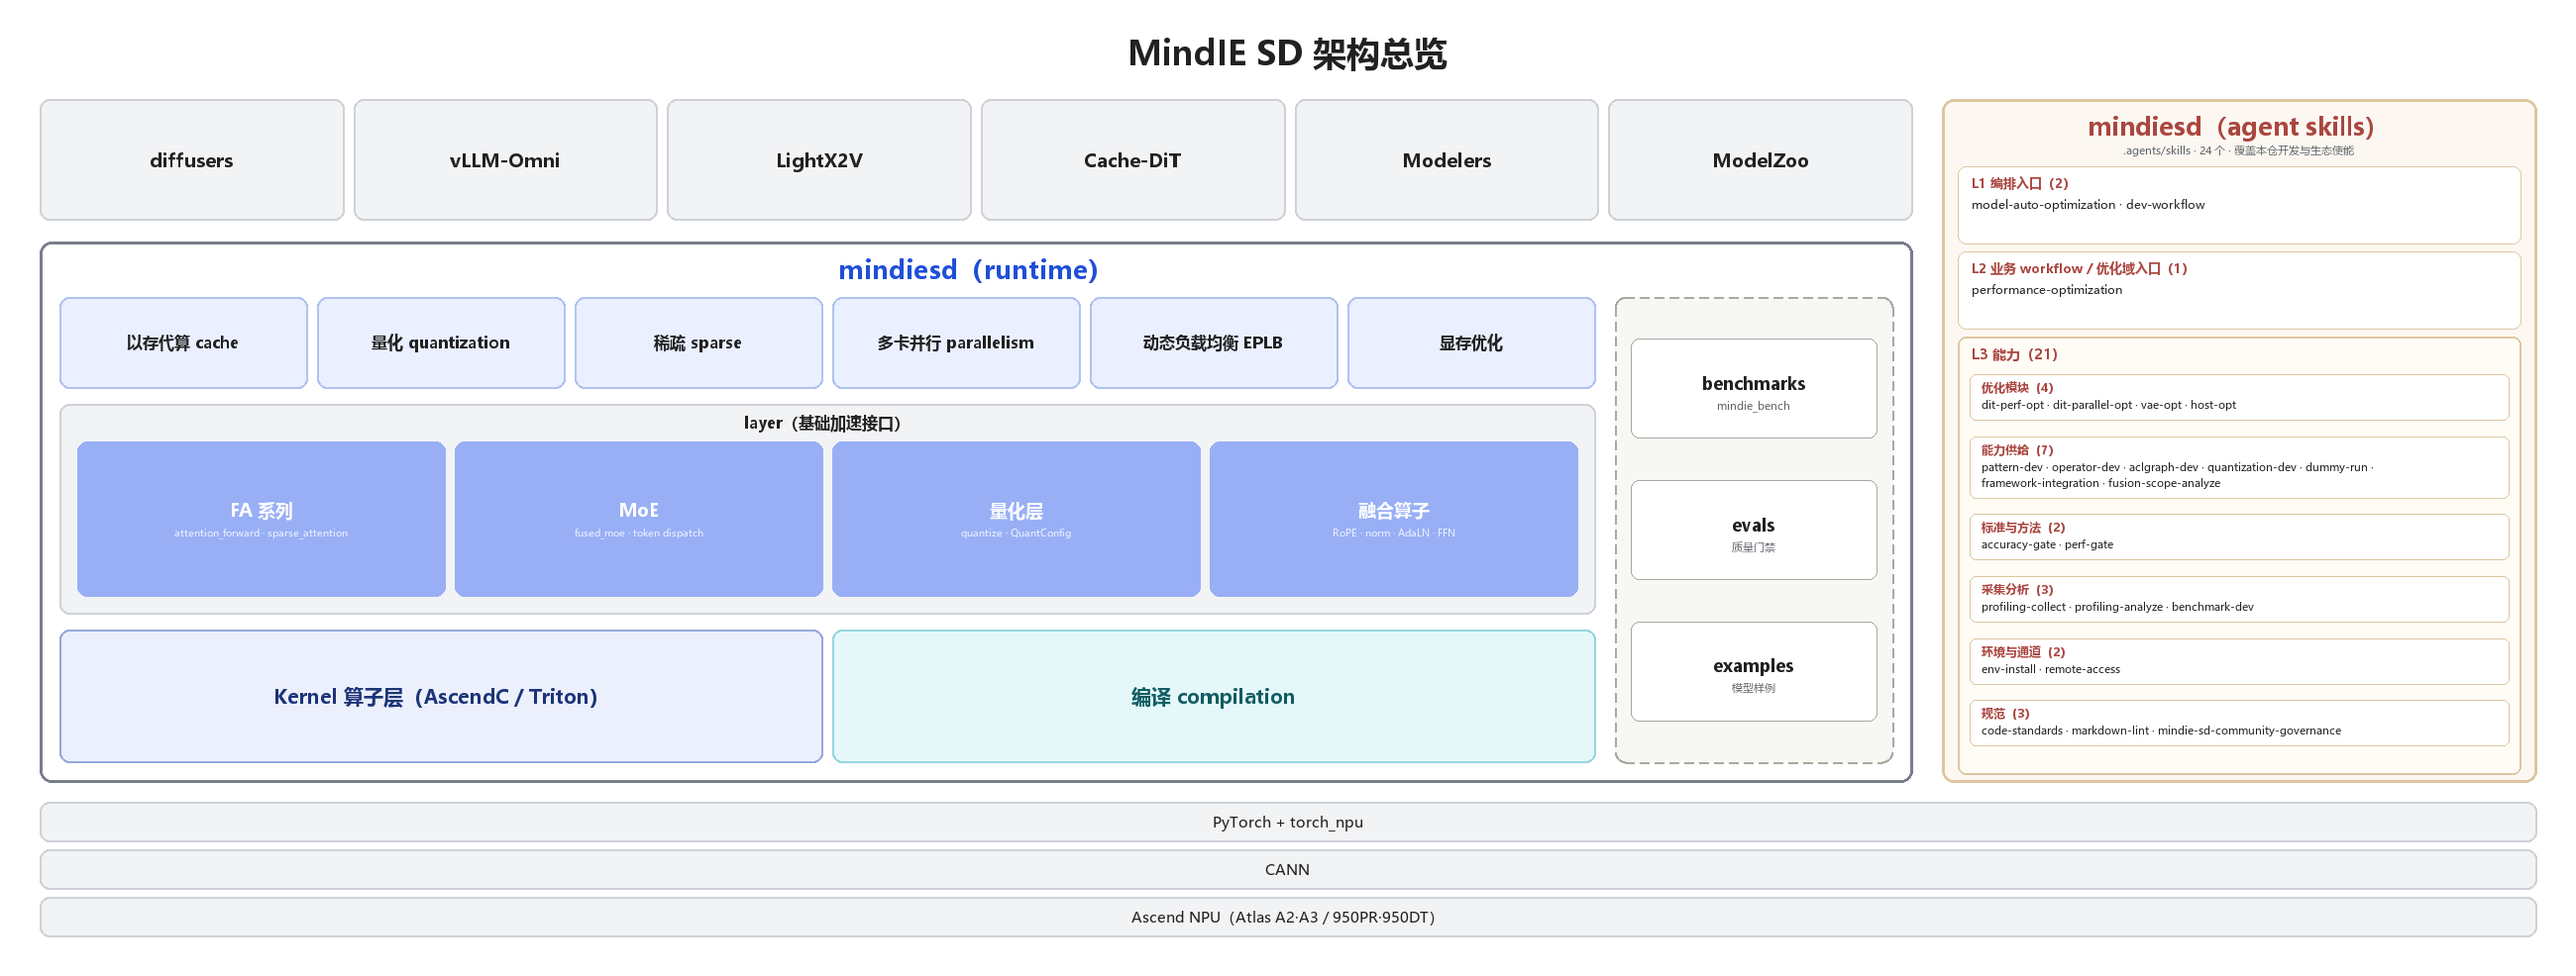
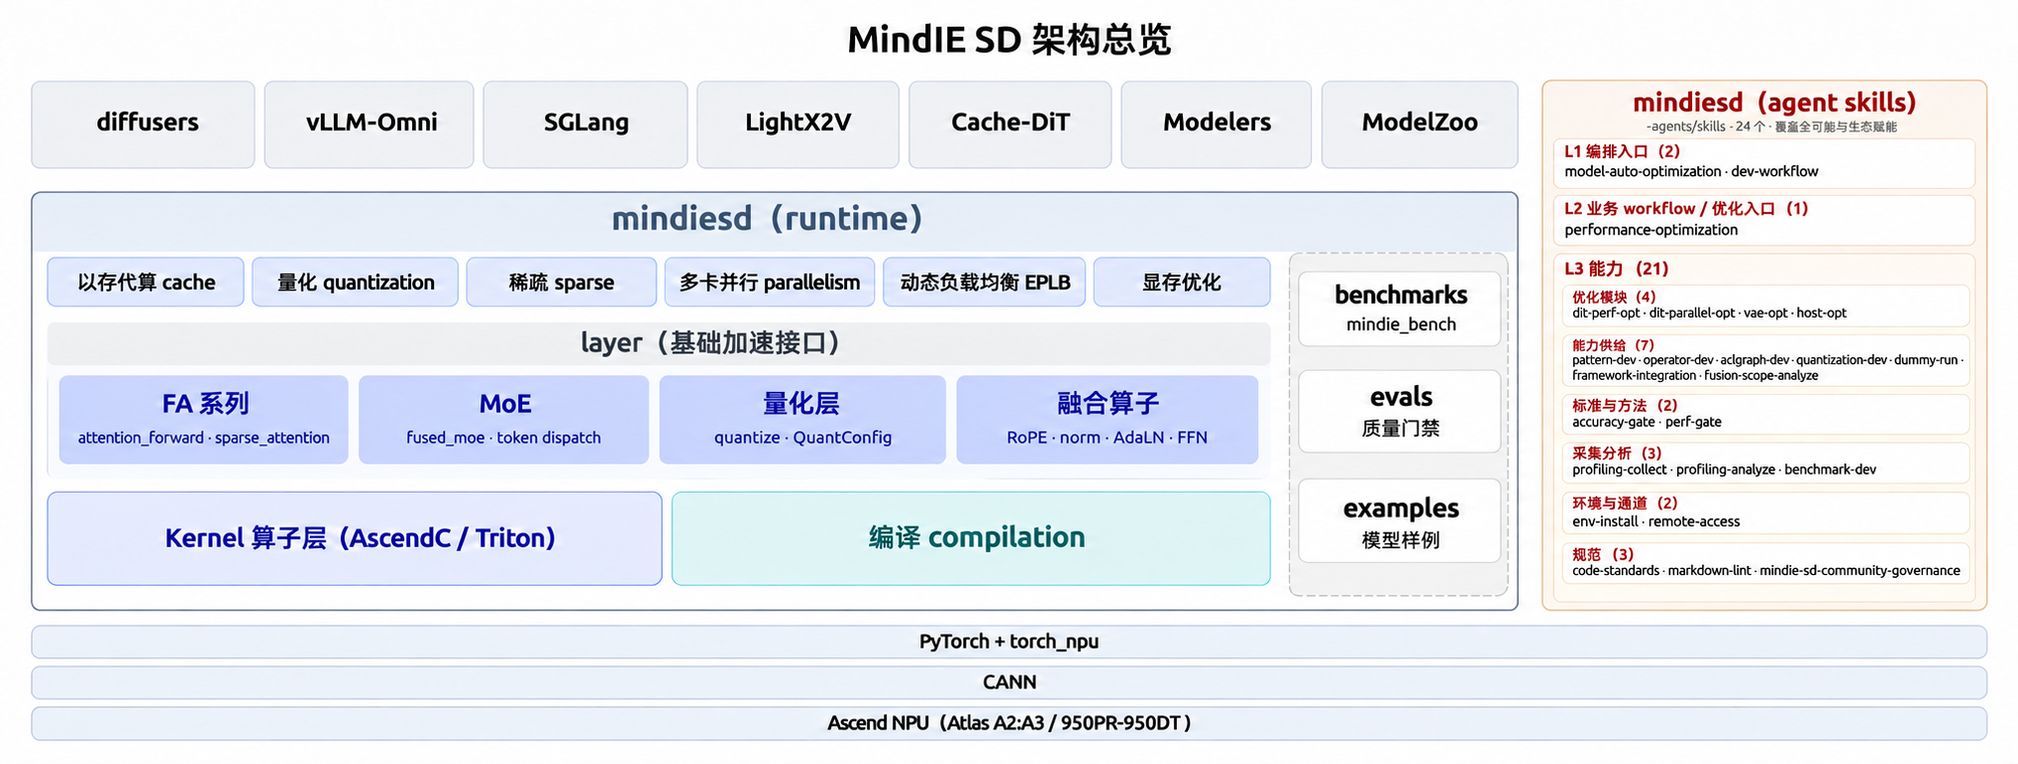
[Docs][integration]Announce SGLang integration and update Omni images to mindiesd 3.3.0
# message auto-generated for no-merge-commit merge:
!892 merge sglang-news-mindiesd-330 into dev

[Docs][integration]Announce SGLang integration and update Omni images to mindiesd 3.3.0

Created-by: qq_48159150
Commit-by: Tzychen
Merged-by: ascend-robot
Description: # Which issue(s) this PR fixes or accomplishes
[#428](https://gitcode.com/Ascend/MindIE-SD/issues/428) 

# Purpose
同步中英文 SGLang 接入公告、生态列表和架构图；将 A2、A3、A5 Omni 镜像的 mindiesd 固定依赖从 3.2.0 升到 3.3.0。

# Test Plan
核对双语内容、图片引用及三处镜像依赖，检查提交差异。

# Test Report
已核对上述内容，git diff --cached --check 通过；未构建 Docker 镜像。

See merge request: Ascend/MindIE-SD!892

Changed region(s): [[0.0, 0.0311, 0.9897, 0.9637], [0.0619, 0.6839, 0.2784, 0.7461], [0.2474, 0.1554, 0.3402, 0.1865]]

diff --git a/README.en.md b/README.en.md
@@ -37,6 +37,7 @@ For supported models and feature stacking, see [Model/Framework Support](docs/en
 
 ## 📢 Latest News
 
+- 11/18/2026: [MindIE SD quantized attention is now integrated into SGLang main](https://github.com/sgl-project/sglang/pull/46029) 🤝
 - 11/11/2026: Completed [MiniMax-H3-Image Day0 inference adaptation on Ascend](examples/minimax-h3-image/infer.md) 🚀
 - 09/23/2026: [MXAttention paper](docs/tech_report/MXAttention.pdf) has been submitted to ICLR ([arXiv:2607.24377](https://arxiv.org/abs/2607.24377)) 📄
 - 09/20/2026: Completed [high-performance Qwen-Image-2.1 inference adaptation and optimization on Ascend](examples/qwen-image-2.1/infer.md) 🚀
@@ -85,6 +86,7 @@ The following projects have integrated MindIE SD as a multimodal inference backe
 - [vLLM Omni](https://github.com/vllm-project/vllm-omni)
 - [Cache-DiT](https://github.com/vipshop/cache-dit)
 - [Lightx2v](https://github.com/ModelTC/lightx2v)
+- [SGLang](https://github.com/sgl-project/sglang)
 
 ## 🙏 Acknowledgment
 

diff --git a/README.md b/README.md
@@ -37,6 +37,7 @@
 
 ## 📢 Latest News
 
+- 11/18/2026: [MindIE SD 量化注意力正式接入 SGLang 主仓](https://github.com/sgl-project/sglang/pull/46029) 🤝
 - 11/11/2026: 完成 [MiniMax-H3-Image 昇腾 Day0 推理适配](examples/minimax-h3-image/infer.md) 🚀
 - 09/23/2026: [MXAttention 论文](docs/tech_report/MXAttention.pdf) 已投稿 ICLR（[arXiv:2607.24377](https://arxiv.org/abs/2607.24377)）📄
 - 09/20/2026: 完成 [Qwen-Image-2.1 昇腾高性能推理适配与优化](examples/qwen-image-2.1/infer.md) 🚀
@@ -85,6 +86,7 @@ MindIE SD 架构和关键特性详见[架构介绍](docs/zh/architecture.md)。
 - [vLLM Omni](https://github.com/vllm-project/vllm-omni)
 - [Cache-DiT](https://github.com/vipshop/cache-dit)
 - [Lightx2v](https://github.com/ModelTC/lightx2v)
+- [SGLang](https://github.com/sgl-project/sglang)
 
 ## 🙏 Acknowledgment
 
